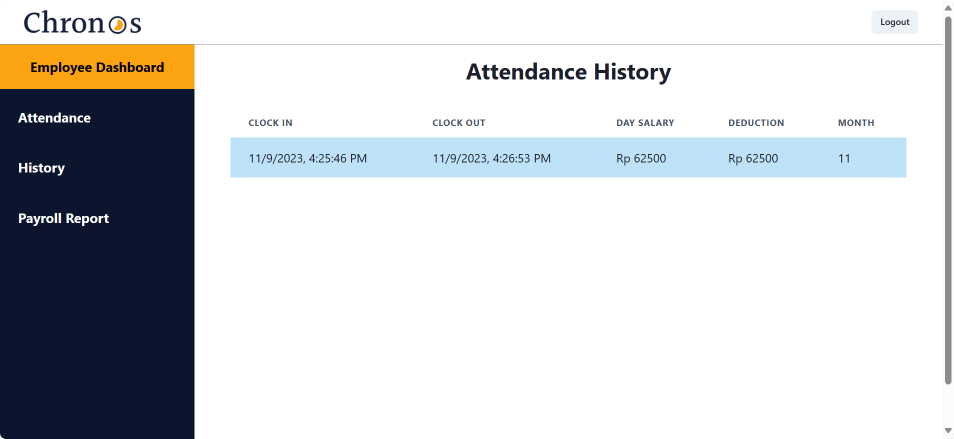
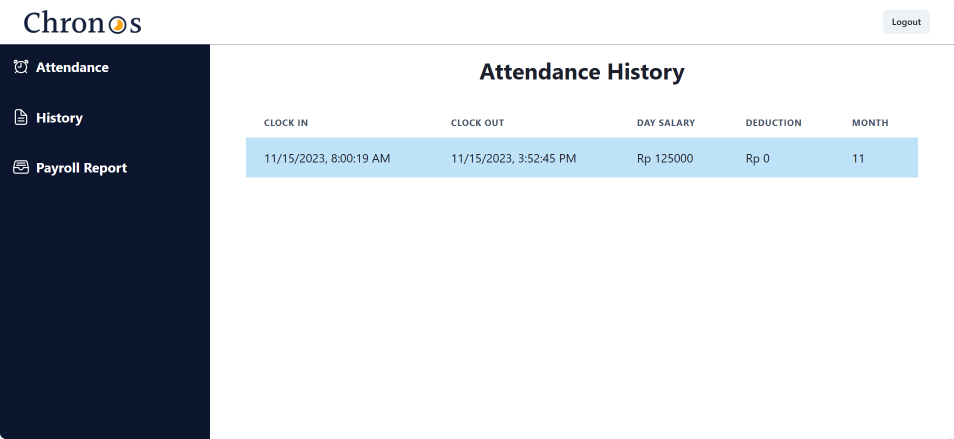
modify employee dashboard

diff --git a/src/pages/EmployeeLanding.jsx b/src/pages/EmployeeLanding.jsx
@@ -1,10 +1,16 @@
-import { Box, Flex, Text, VStack } from '@chakra-ui/react';
+import { Box, Flex, Stack } from '@chakra-ui/react';
 import React, { useEffect, useState } from 'react'
-import { Link, useNavigate } from 'react-router-dom';
+import { useNavigate } from 'react-router-dom';
 import Navbar from '../components/Navbar';
 import Attendance from '../components/employee/Attendance';
 import Payroll from '../components/employee/Payroll';
 import History from '../components/employee/History';
+import {
+  IoAlarmOutline,
+  IoDocumentTextOutline,
+  IoFileTrayFullOutline,
+} from "react-icons/io5";
+import MenuDashboard from '../components/employee/MenuDashboard';
 
 function withAuth(Component) {
   return function WrappedComponent(props) {
@@ -45,80 +51,37 @@ const EmployeeLanding = () => {
       <Navbar />
       <Flex flexDir={{ base: "column", md: "row" }}>
         <Box
-          w={{ base: "100%", md: "26%" }}
+          pos={"fixed"}
+          zIndex={10}
+          w={{ base: "100%", md: "280px" }}
           bg={"#0B162E"}
           color="white"
-          minH={{ base:"fit-content", lg:"100vh"}}
+          minH={{ md: "100vh" }}
           mt={"60px"}
         >
-          <VStack spacing="2" align="stretch">
-            <Box w={"full"} bg={"#FCA311"} textAlign={"center"}>
-              <Text
-                fontSize={{ base: "2xl", md: "18" }}
-                fontWeight="bold"
-                p="4"
-                color={"black"}
-              >
-                Employee Dashboard
-              </Text>
-            </Box>
-            <Link as={"button"} onClick={() => setActivePage("attendance")}>
-              <Box
-                display={"flex"}
-                alignItems={"center"}
-                justifyContent={"flex-start"}
-                p={"4"}
-                bg={"#0B162E"}
-                _hover={{ bg: "#253559" }}
-              >
-                <Text
-                  fontSize={{ base: "lg", md: "18" }}
-                  fontWeight="bold"
-                  ml={2}
-                >
-                  Attendance
-                </Text>
-              </Box>
-            </Link>
-            <Link as={"button"} onClick={() => setActivePage("history")}>
-              <Box
-                display={"flex"}
-                alignItems={"center"}
-                justifyContent={"flex-start"}
-                p={"4"}
-                bg={"#0B162E"}
-                _hover={{ bg: "#253559" }}
-              >
-                <Text
-                  fontSize={{ base: "lg", md: "18" }}
-                  fontWeight="bold"
-                  ml={2}
-                >
-                  History
-                </Text>
-              </Box>
-            </Link>
-            <Link as={"button"} onClick={() => setActivePage("payroll")}>
-              <Box
-                display={"flex"}
-                alignItems={"center"}
-                justifyContent={"flex-start"}
-                p={"4"}
-                bg={"#0B162E"}
-                _hover={{ bg: "#253559" }}
-              >
-                <Text
-                  fontSize={{ base: "lg", md: "18" }}
-                  fontWeight="bold"
-                  ml={2}
-                >
-                  Payroll Report
-                </Text>
-              </Box>
-            </Link>
-          </VStack>
+          <Stack
+            spacing="2"
+            direction={{ base: "row", md: "column" }}
+            w={"full"}
+          >
+            <MenuDashboard
+              onClick={() => setActivePage("attendance")}
+              icon={IoAlarmOutline}
+              name="Attendance"
+            />
+            <MenuDashboard
+              onClick={() => setActivePage("history")}
+              icon={IoDocumentTextOutline}
+              name="History"
+            />
+            <MenuDashboard
+              onClick={() => setActivePage("payroll")}
+              icon={IoFileTrayFullOutline}
+              name="Payroll Report"
+            />
+          </Stack>
         </Box>
-        <Box w={"full"} mt={{ base: "12px", md: "60px"}}>
+        <Box w={"full"} ml={{ md: "280px" }} mt={{ base: "116px", md: "60px" }}>
           {renderPage()}
         </Box>
       </Flex>

diff --git a/src/components/employee/Attendance.jsx b/src/components/employee/Attendance.jsx
@@ -6,11 +6,13 @@ import {
   Button,
   Flex,
   Heading,
+  Icon,
   Text,
   VStack,
   useToast,
 } from "@chakra-ui/react";
 import { useSelector } from "react-redux";
+import { IoLogInOutline, IoLogOutOutline } from "react-icons/io5";
 const URL_API = process.env.REACT_APP_API_BASE_URL;
 
 const Attendance = () => {
@@ -178,7 +180,10 @@ const Attendance = () => {
             color={"white"}
             _hover={{ bg: "#253559" }}
           >
-            Clock In
+            <Box display={"flex"} alignItems={"center"} gap={2}>
+              <Icon as={IoLogInOutline} w={5} h={5} />
+              <Text>Clock In</Text>
+            </Box>
           </Button>
           <Button
             onClick={handleClockOut}
@@ -191,7 +196,10 @@ const Attendance = () => {
             color={"#0B162E"}
             _hover={{ bg: "gray.100" }}
           >
-            Clock Out
+            <Box display={"flex"} alignItems={"center"} gap={2}>
+              <Icon as={IoLogOutOutline} w={5} h={5} />
+              <Text>Clock Out</Text>
+            </Box>
           </Button>
         </Flex>
         {clockInTime && (
@@ -200,8 +208,7 @@ const Attendance = () => {
               Clocked In Successful
             </Text>
             <Text>
-              Clock In Time:{" "}
-              {moment(clockInTime).format("DD/MM/YYYY HH:mm:ss")}
+              Clock In Time: {moment(clockInTime).format("DD/MM/YYYY HH:mm:ss")}
             </Text>
           </VStack>
         )}

diff --git a/src/components/employee/MenuDashboard.jsx b/src/components/employee/MenuDashboard.jsx
@@ -1,0 +1,32 @@
+import { Box, Icon, Text } from "@chakra-ui/react";
+import React from "react";
+import { Link } from "react-router-dom";
+
+const MenuDashboard = (props) => {
+  return (
+    <Box w={"100%"}>
+      <Link as={"button"} onClick={props.onClick}>
+        <Box
+          display={"flex"}
+          alignItems={"center"}
+          justifyContent={{ base: "center", md: "flex-start" }}
+          p={"4"}
+          bg={"#0B162E"}
+          _hover={{ bg: "#253559" }}
+        >
+          <Icon as={props.icon} w={6} h={6} />
+          <Text
+            display={{ base: "none", md: "block" }}
+            fontSize={{ base: "lg", md: "18" }}
+            fontWeight="bold"
+            ml={2}
+          >
+            {props.name}
+          </Text>
+        </Box>
+      </Link>
+    </Box>
+  );
+};
+
+export default MenuDashboard;
